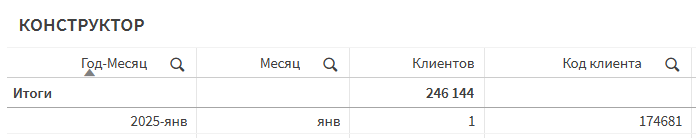
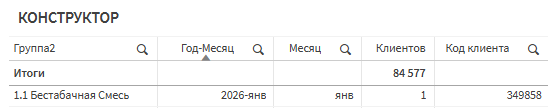
1241

diff --git a/app.py b/app.py
@@ -167,7 +167,7 @@ with col_template_instructions:
     st.markdown("""
     1. Зайдите в Qlik, анализ чеков.
     
-    2. Отберите необходимую категорию и уровни товара.
+    2. Отберите анализируемые категории в одном из разрезов Группа1/2/3/4.
     
     3. Отберите анализируемый период.
     
@@ -1337,6 +1337,19 @@ if uploaded_file is not None:
                                 use_container_width=True,
                                 key="download_analysis_pdf"
                             )
+                        # Продукт построения когорт — уникальные значения из первого столбца первого документа
+                        df_first = st.session_state.get('df')
+                        if df_first is not None and len(df_first.columns) > 0:
+                            product_col = df_first.columns[0]
+                            unique_products = sorted(df_first[product_col].dropna().astype(str).str.strip().unique())
+                            unique_products = [p for p in unique_products if p]
+                            if unique_products:
+                                products_text = ", ".join(unique_products)
+                                st.markdown(f"""
+                                <p style="font-size: 1.1rem; font-weight: 600; margin-top: 16px;">
+                                    Продукт построения когорт: {products_text}
+                                </p>
+                                """, unsafe_allow_html=True)
                 else:
                     st.info("⏳ Загрузите файл и дождитесь завершения расчётов для генерации отчётов")
                 
@@ -2404,7 +2417,7 @@ if uploaded_file is not None:
                     # Сводная таблица по всем когортам (после блока присутствия клиентов)
                     st.markdown("---")
                     st.subheader("📊 Сводная таблица по всем когортам")
-                    
+                    st.caption("Чем ближе когорта к последнему периоду в выгрузке, тем менее сопоставимы метрики: накопленный возврат ещё не успевает сформироваться, а доля оттока завышена из‑за короткого горизонта наблюдения.")
                     if st.session_state.get('churn_table') is not None:
                         churn_table = st.session_state.churn_table
                         has_categories_file = (
